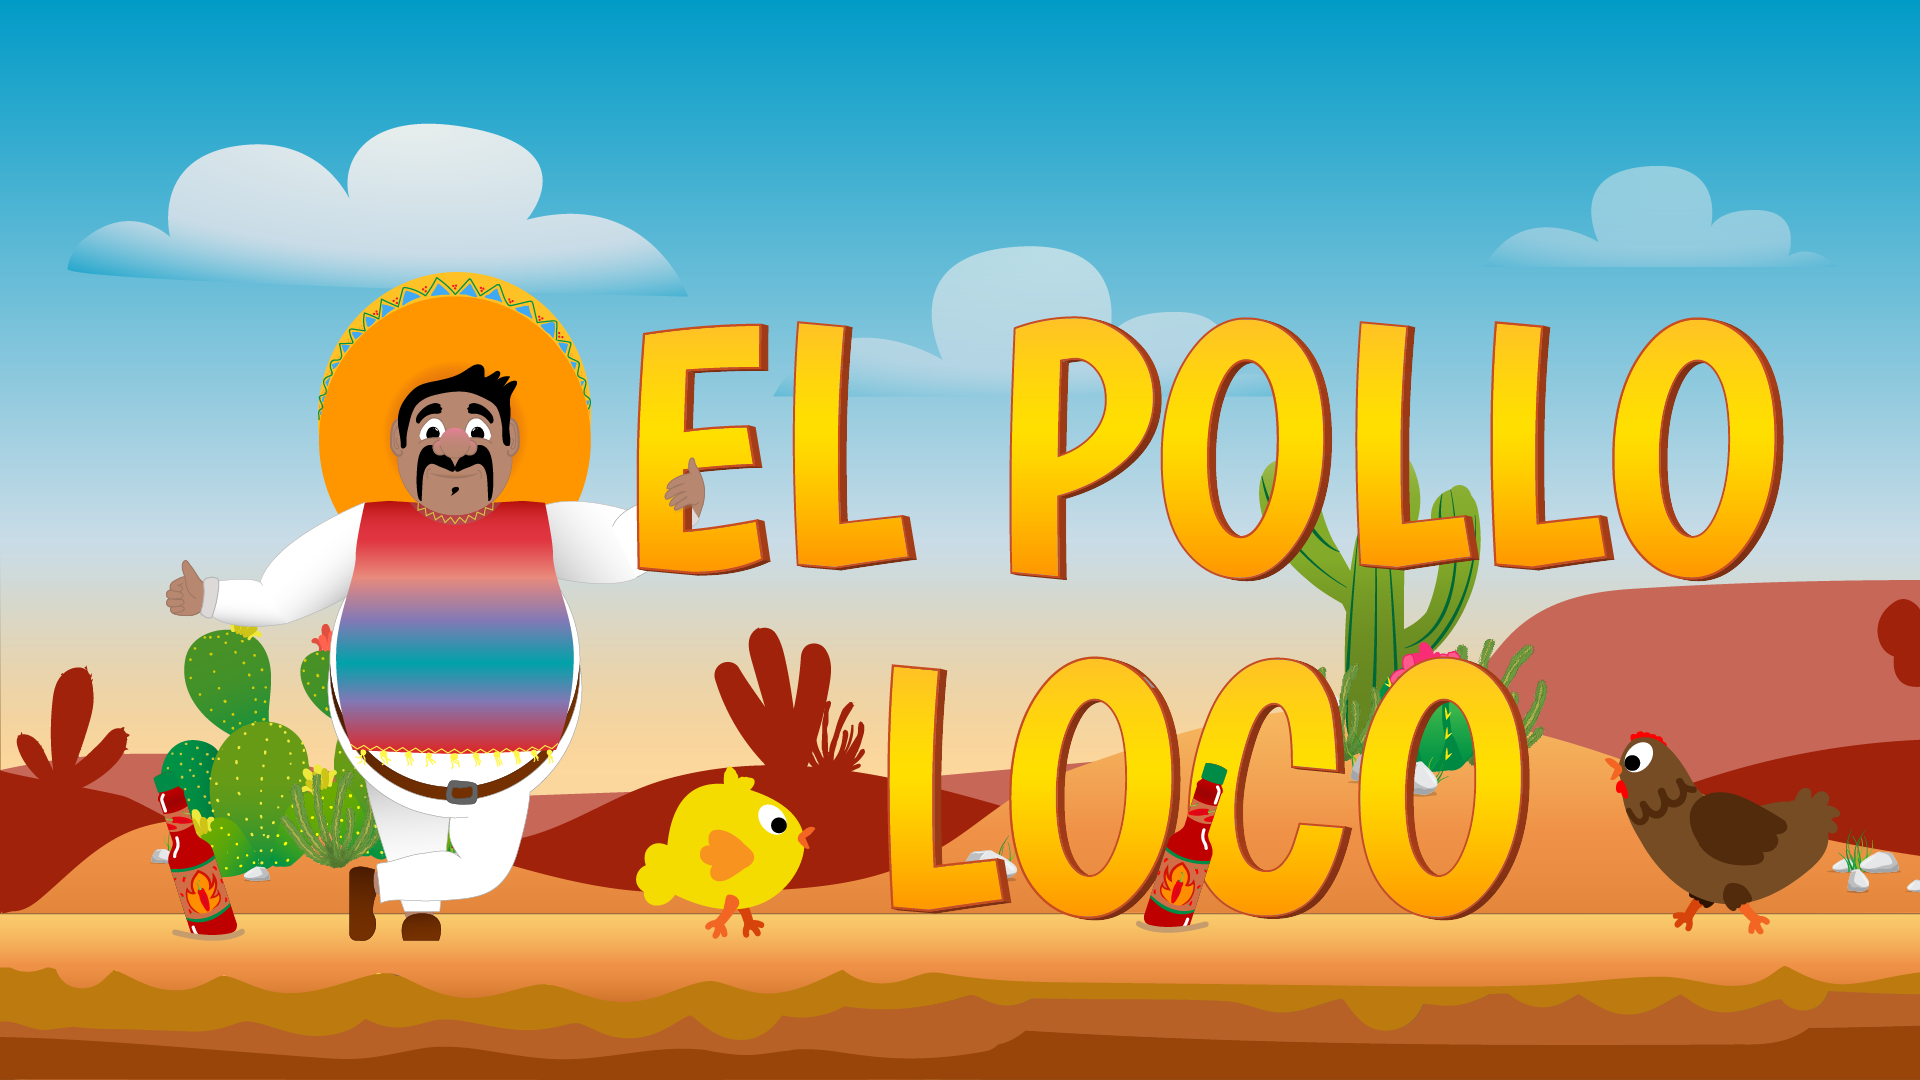
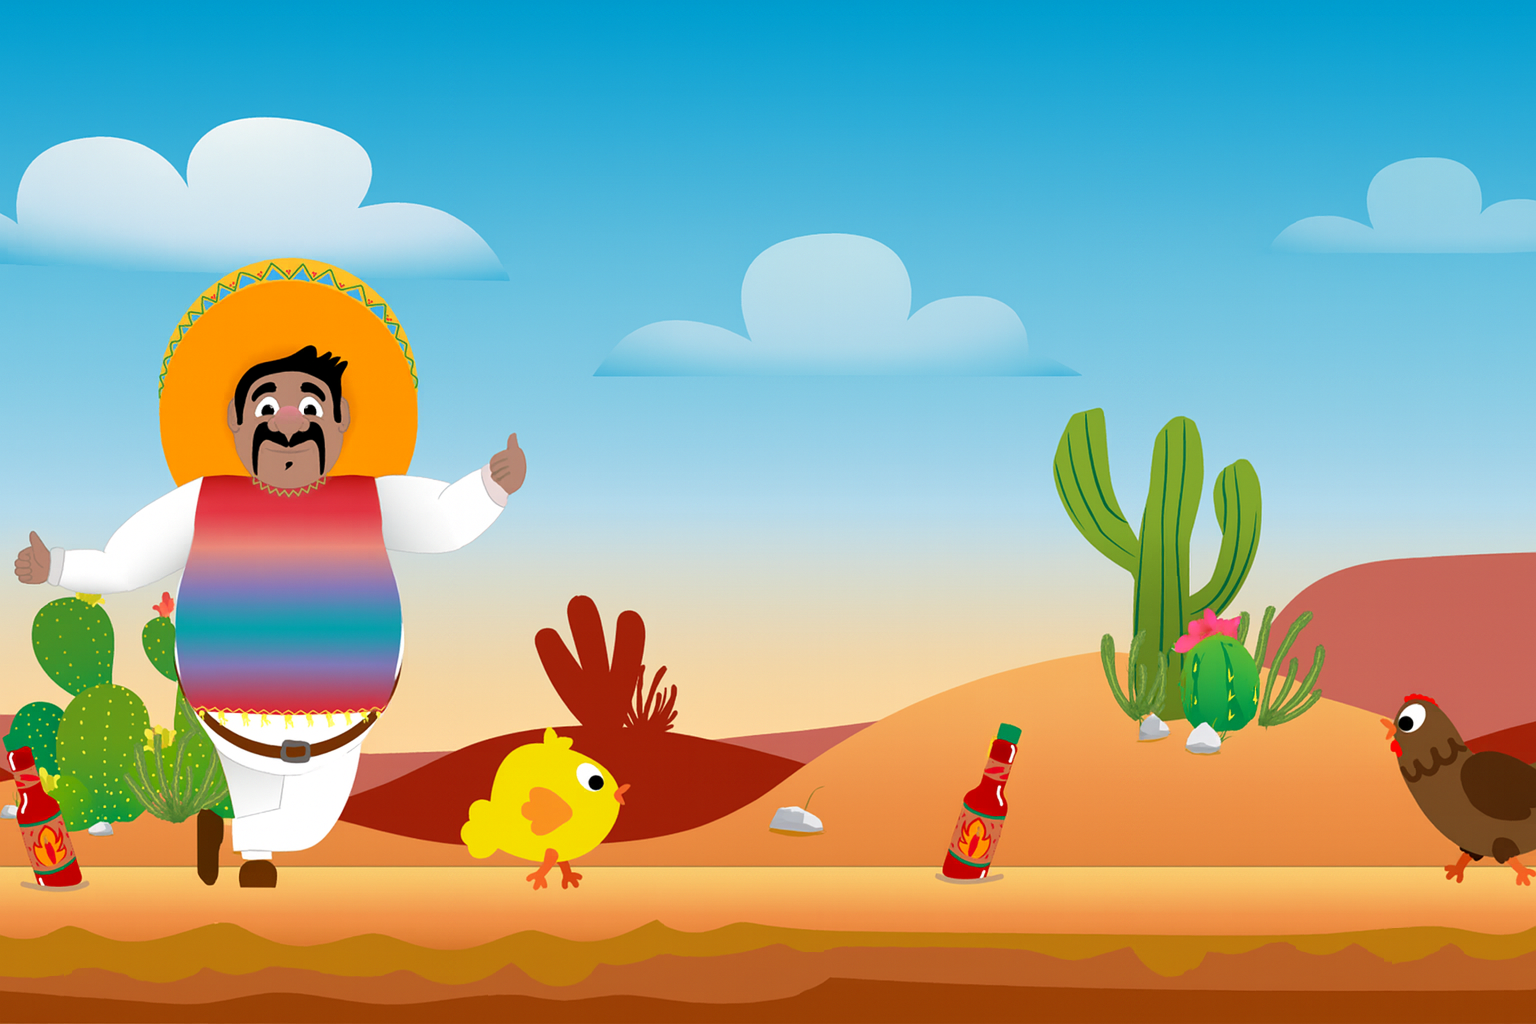
added start-screen

diff --git a/index.html b/index.html
@@ -7,7 +7,7 @@
     <link rel="stylesheet" href="style.css" />
     <link rel="icon" href="./img/favicon.png" />
     <!-- JS FILES -->
-     <script src="./js/audio.js" defer></script>
+    <script src="./js/audio.js" defer></script>
     <!-- Base classes -->
     <script src="./models/drawable-object.class.js" defer></script>
     <script src="./models/movable-object.class.js" defer></script>
@@ -36,57 +36,85 @@
     <script src="./script.js" defer></script>
   </head>
   <body onload="init()">
-    <h1 class="outlined">El pollo loco</h1>
-    <section class="game-content-wrapper">
-      <canvas id="canvas" width="720" height="480"></canvas>
-      <section class="upper-btn-container">
-        <button>
-          <img src="./img/btn_sound.png" alt="mute, unmute button" />
-        </button>
-        <button>
-          <img src="./img/btn_restart.png" alt="restart button" />
-        </button>
-        <button>
-          <img src="./img/btn_close.png" alt="quit game button" />
-        </button>
+    <main class="main-game-wrapper">
+      <h1 class="outlined">El pollo loco</h1>
+      <section class="game-content-wrapper">
+        <canvas id="canvas" width="720" height="480"></canvas>
+        <section class="upper-btn-container">
+          <button>
+            <img src="./img/btn_sound.png" alt="mute, unmute button" />
+          </button>
+          <button>
+            <img src="./img/btn_restart.png" alt="restart button" />
+          </button>
+          <button>
+            <img src="./img/btn_close.png" alt="quit game button" />
+          </button>
+        </section>
+        <section class="mobile-control-buttons">
+          <div class="left-btns">
+            <button id="btn_throw">
+              <img
+                src="./img/arrow_throw.png"
+                alt="curved arrow pointing to the right, throw"
+              />
+            </button>
+            <button id="btn_jump">
+              <img
+                src="./img/arrow_upward.png"
+                alt="arrow pointing to the top, jump"
+              />
+            </button>
+          </div>
+          <div class="right-btns">
+            <button id="btn_left">
+              <img
+                src="./img/arrow_back.png"
+                alt="arrow pointing to the left, go left"
+              />
+            </button>
+            <button id="btn_right">
+              <img
+                src="./img/arrow_forward.png"
+                alt="arrow pointing to the right, go right"
+              />
+            </button>
+          </div>
+        </section>
       </section>
-      <section class="mobile-control-buttons">
-        <div class="left-btns">
-          <button id="btn_throw">
-            <img
-              src="./img/arrow_throw.png"
-              alt="curved arrow pointing to the right, throw"
-            />
-          </button>
-          <button id="btn_jump">
-            <img
-              src="./img/arrow_upward.png"
-              alt="arrow pointing to the top, jump"
-            />
-          </button>
+    </main>
+    <!-- Start game overlay -->
+     <section class="start-screen">
+      <div class="start-screen-img"></div>
+      <div class="start-screen-content">
+        <h2 class="outlined">El pollo loco</h2>
+        <div class="start-screen-btns">
+          <button>Game controls</button>
+          <button>Start game</button>
         </div>
-        <div class="right-btns">
-          <button id="btn_left">
-            <img
-              src="./img/arrow_back.png"
-              alt="arrow pointing to the left, go left"
-            />
-          </button>
-          <button id="btn_right">
-            <img
-              src="./img/arrow_forward.png"
-              alt="arrow pointing to the right, go right"
-            />
-          </button>
+        <div class="game-story">
+          <h3 class="outlined">Game story</h3>
+          <p class="outlined">
+            Assist Pepe, the main character in his journey, navigating though
+            the Mexican desert. <br />
+            Beware of the chickens and chicks, jump on them boefore they catch
+            you. <br />
+            Gather coins, collect salsa bottles and prepare for the final fight
+            with the endboss. He does not like salsa!
+          </p>
         </div>
-      </section>
+        <footer>
+          <a class="outlined" href="./html/legal-notice.html">Legal notice</a>
+          <div class="vertical-divider"></div>
+          <a class="outlined" href="./html/privacy-policy.html"
+            >Privacy policy</a
+          >
+        </footer>
+      </div>
     </section>
-    <footer>
-      <a class="outlined" href="./html/legal-notice.html">Legal notice</a>
-      <div class="vertical-divider"></div>
-      <a class="outlined" href="./html/privacy-policy.html">Privacy policy</a>
-    </footer>
-    <div id="orientation_warning" class="warning-container">
+
+    <!-- Orientation warning overlay -->
+    <section id="orientation_warning" class="warning-container">
       <span>Enjoy the game in landscape mode only!</span>
       <span>Please rotate your device!</span>
       <img
@@ -94,6 +122,6 @@
         src="./img/6_salsa_bottle/salsa_bottle.png"
         alt="a salsa bottle"
       />
-    </div>
+    </section>
   </body>
 </html>

diff --git a/style.css b/style.css
@@ -5,12 +5,6 @@
 
 body {
     margin: 0;
-    height: 100vh;
-    display: flex;
-    flex-direction: column;
-    justify-content: center;
-    gap: 80px;
-    align-items: center;
     background-image: url('./img/5_background/background_img_main.png');
     background-size: cover;
     background-repeat: no-repeat;
@@ -26,10 +20,10 @@ body {
   src: url('./fonts/bungee-v17-latin-regular.woff2') format('woff2'); 
 }
 
-h1 {
+h1, h2 {
     color: azure;
     text-decoration: wavy;
-    font-size: 48px;
+    font-size: clamp(1.8rem, 4vw + 1rem, 3rem);
 }
 
 .outlined { 
@@ -53,11 +47,27 @@ a:hover {
     transition: 125ms ease-in-out;
 }
 
+.d-none {
+    display: none !important;
+}
+
+
 /* Canvas styling */
 
+.main-game-wrapper {
+    display: flex;
+    justify-content: center;
+    align-items: center;
+    flex-direction: column;
+    min-height: 100vh;
+    padding: 40px 10px;
+    background: rgba(240, 240, 240, 0.4); 
+}
+
 .game-content-wrapper {
+    display: flex;
+    justify-content: center;
     position: relative;
-    width: fit-content;
 }
 
 canvas {
@@ -129,13 +139,62 @@ button:not(.fullscreen-btn):hover {
     width: 30%;
 }
 
-/* Footer styling */
+/* Start screen overlay */
+
+.start-screen { 
+    position: fixed; 
+    inset: 0; 
+    z-index: 10; 
+    display: grid; 
+} 
+.start-screen-img { 
+    grid-area: 1 / 1; 
+    background-image: url('img/9_intro_outro_screens/start/startscreen_1.png'); 
+    background-size: cover; 
+    background-position: center; 
+} 
+.start-screen-content { 
+    grid-area: 1 / 1; 
+    display: flex; 
+    flex-direction: column; 
+    align-items: center; 
+    gap: 40px; 
+    padding: 0 40px; 
+    background: rgba(240, 240, 240, 0.5); 
+    overflow-y: auto;
+    width: 100%;
+    max-width: 100%;
+} 
+.start-screen-btns { 
+    display: flex; 
+    justify-content: 
+    center; gap: 2rem; 
+    flex-wrap: wrap; 
+} 
+
+.start-screen-btns button {
+    padding: 8px 45px;
+    font-size: 20px;
+}
+
+.game-story { 
+    border: 2px solid brown; 
+    border-radius: 20px; 
+    background-color: #c76758; 
+    padding: 20px; 
+}
+.game-story p, 
+.game-story h3 { 
+    color: white; 
+    text-align: center; 
+    line-height: 2.5; 
+}
+
 
 footer {
     display: flex;
     justify-content: center;
     align-items: center;
-    width: 50%;
     gap: 30px;
     padding-bottom: 40px;
 }
@@ -145,6 +204,8 @@ footer {
     width: 2px;
     background-color: white;
 }
+
+/* Warning overlay */
 
 .warning-container {
     display: none;
@@ -156,9 +217,9 @@ footer {
     background-color: #fbc862;
     top: 0;
     left: 0;
-    height: 100vh;
+    height: 100%;
     width: 100%;
-    z-index: 10;
+    z-index: 100;
     padding: 0 8px;
     box-sizing: border-box;
 }

diff --git a/styles/text.css b/styles/text.css
@@ -12,9 +12,11 @@ main {
 main h1 {
     color: white;
     text-align: center;
+    font-size: clamp(1.8rem, 4vw + 1rem, 3rem);
 }
 main h2 {
     color: white;
+    font-size: clamp(1.8rem, 4vw + 1rem, 3rem);
 }
 main a {
     color: blue;

diff --git a/script.js b/script.js
@@ -19,6 +19,6 @@ function showOrientationWarning(isPortrait) {
     if(isPortrait){
         container.style.display = 'flex';
     } else {
-        container.style.display = 'none';
+        container.style.display = 'none';    
     }
 }
